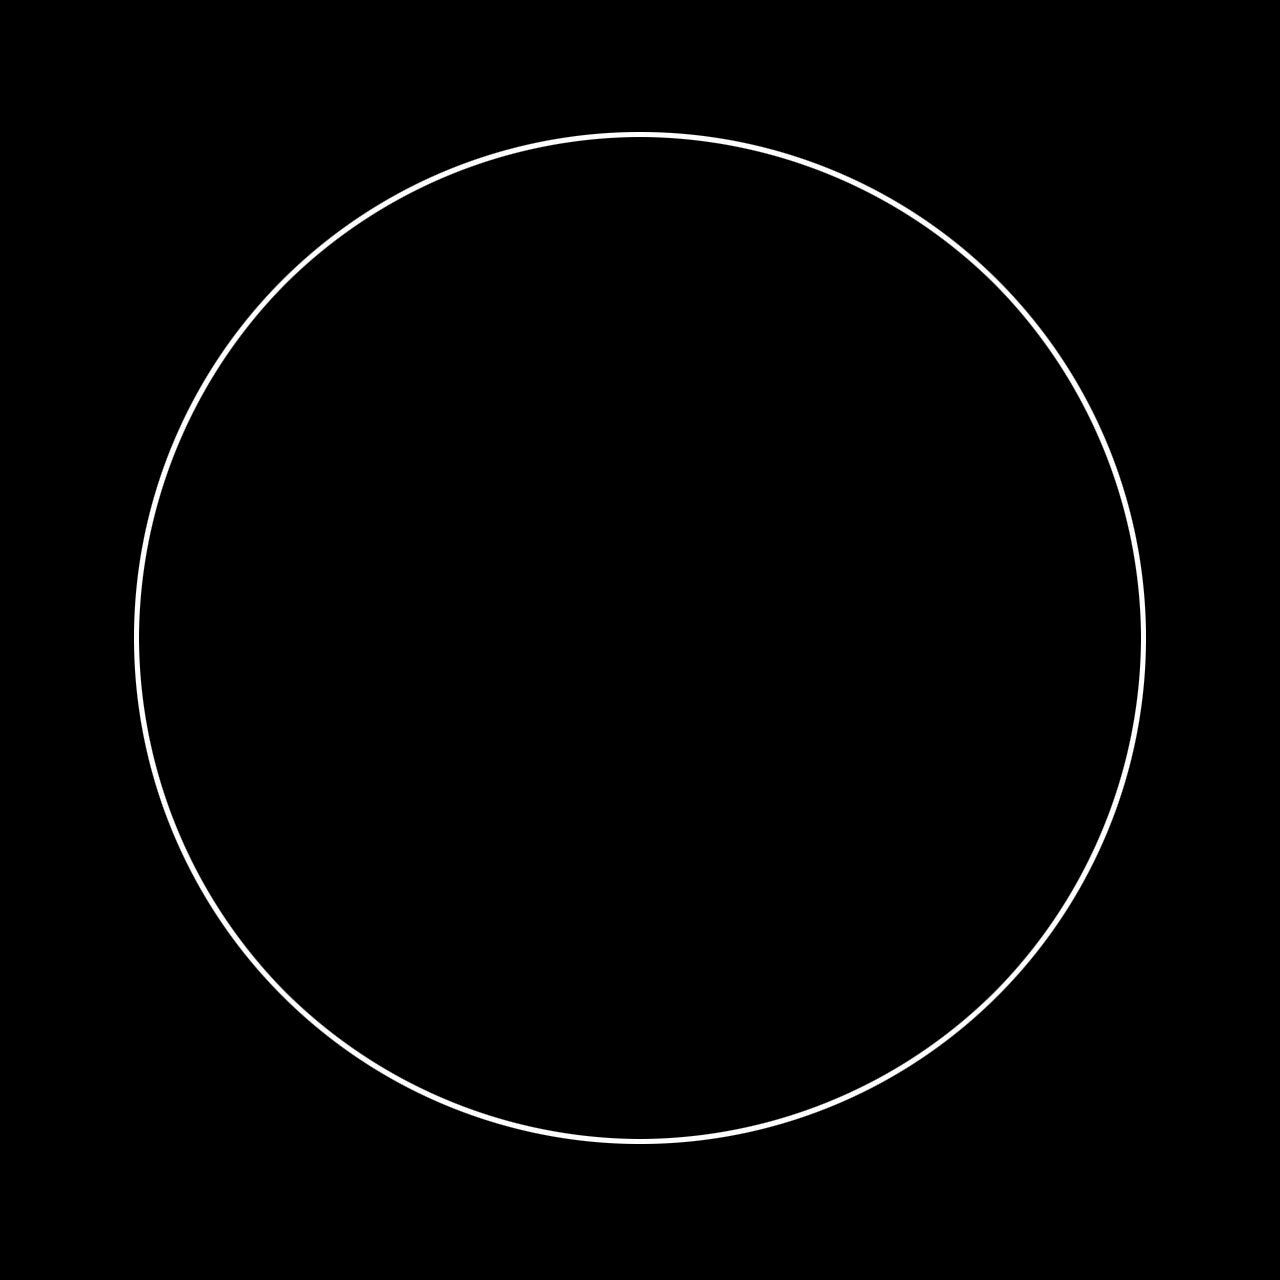
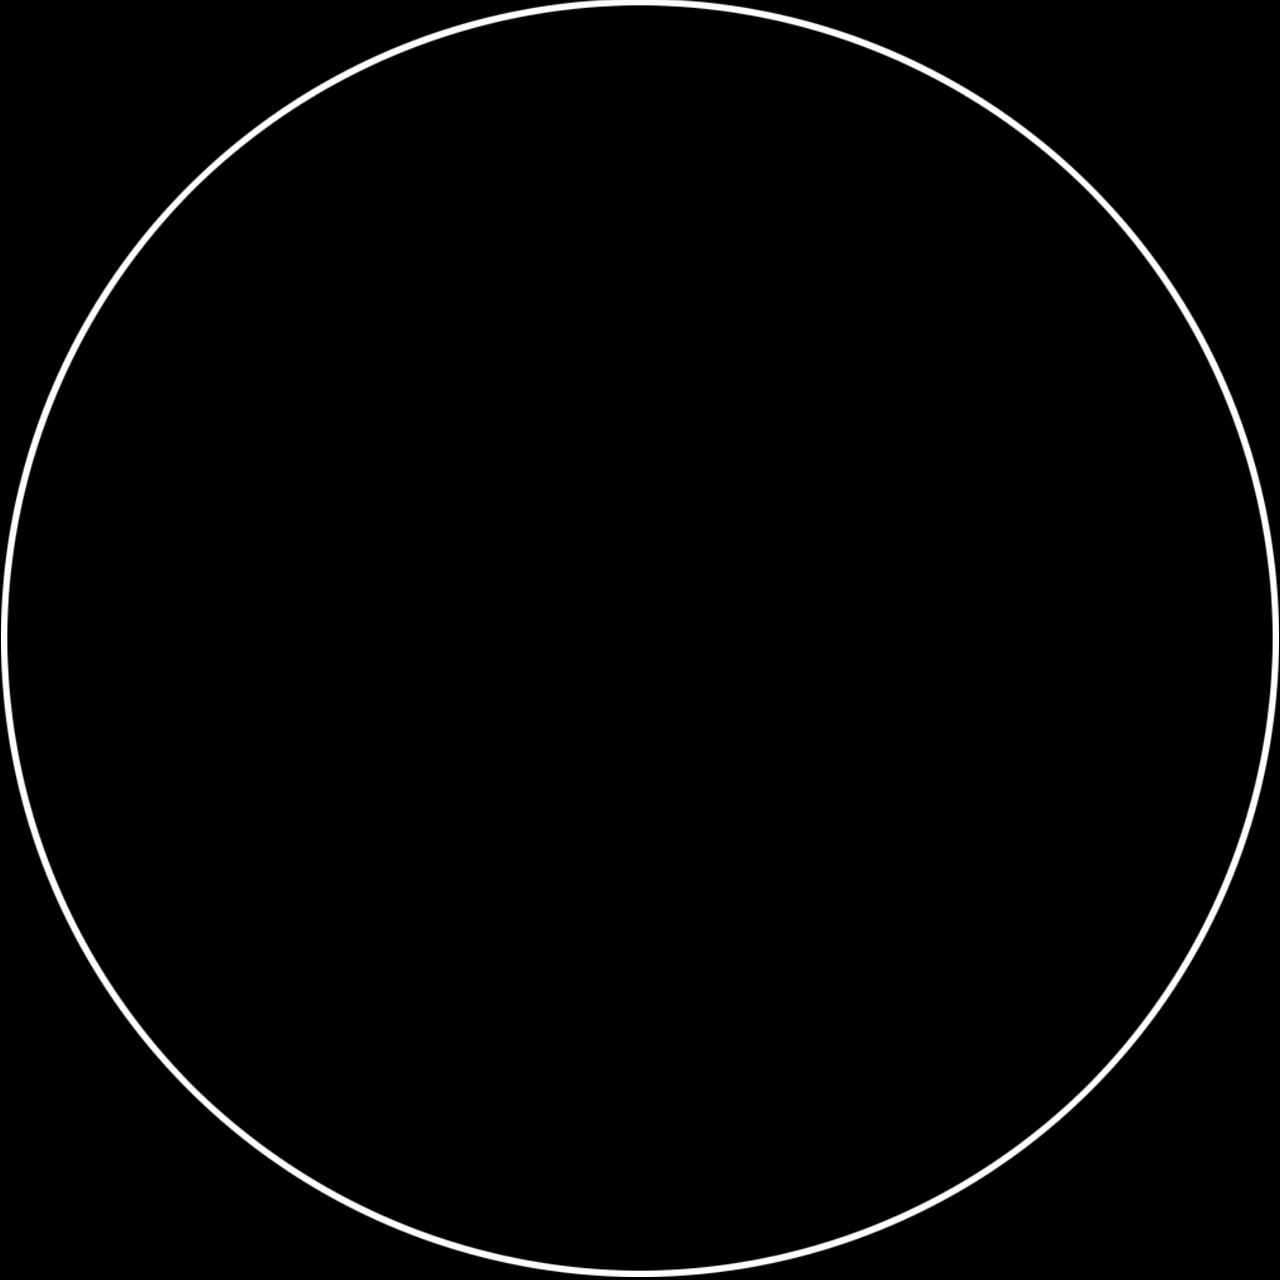
Bigger arena

diff --git a/gamelib/states/game.py b/gamelib/states/game.py
@@ -279,7 +279,7 @@ class Game(object):
         """        
         
         center = vector.Vec2d(WIDTH/2, HEIGHT/2)
-        radius = WIDTH/2 - 60
+        radius = 600
         # bullets vs screen
         for b in (b for b in bullet.pool.active if b.alive):
             if not collision.circle_to_circle(b.pos, 16, center, radius):

diff --git a/gamelib/player.py b/gamelib/player.py
@@ -15,7 +15,7 @@ class Player(pyglet.event.EventDispatcher, obj.CompoundGameObject):
     """
     speed = 540
     speed_diag = speed * 0.7071    
-    vel_smooth = 0.4
+    vel_smooth = 0.25
     width = 64
     height = 64    
     
